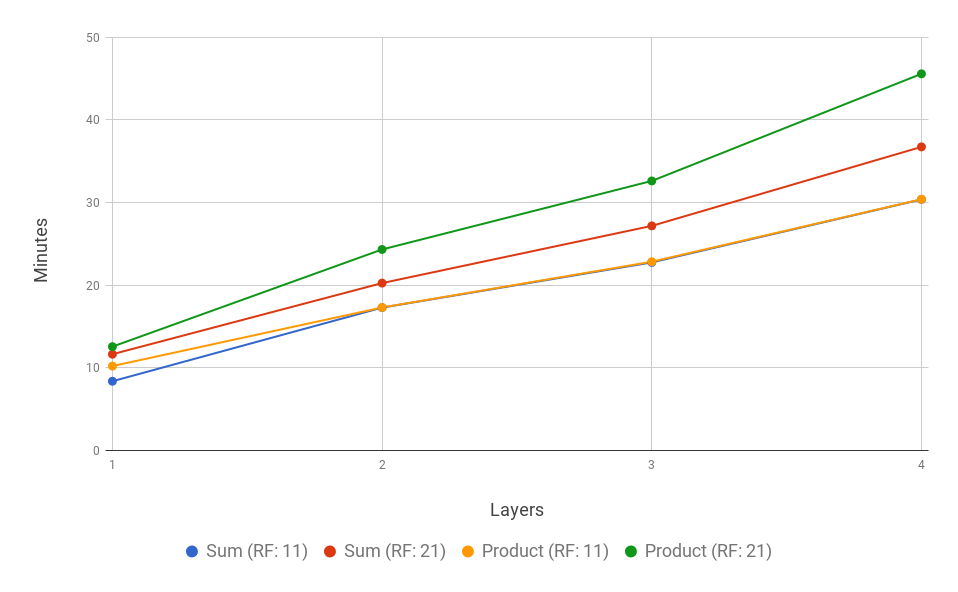
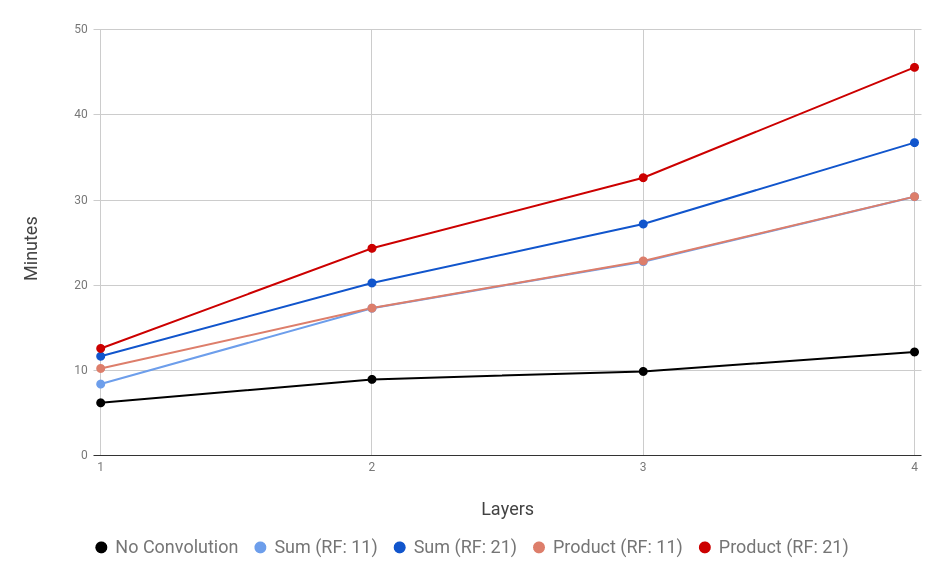
arranged results figures and tables, outlined narrative for some of the analysis section. added new spatial graph conv approach
Former-commit-id: ff11d35eb709cb11b98b892b4c356d455efef5fb

diff --git a/experiments.tex b/experiments.tex
@@ -30,7 +30,7 @@ Table \ref{tab:examples} indicates the number of positive and negative examples 
 			& Test       & 55        & 4,871 (0.1\%)      & 4,953,446 (99.9\%) \\ 
 		\bottomrule
 	\end{tabular}
-	\caption{\small Number of complexes and examples (residue pairs) for each phase of experimentation. Negative examples were down sampled to a ratio of 10:1 with positive examples when training, but testing included all examples. During model selection, three complexes were excluded from the training and validation sets due to a software bug and missing features. These complexes were eventually included for the testing phase. \label{tab:dataset_size}}
+	\caption{Number of complexes and examples (residue pairs) for each phase of experimentation. Negative examples were down sampled to a ratio of 10:1 with positive examples when training, but testing included all examples. During model selection, three complexes were excluded from the training and validation sets due to a software bug and missing features. These complexes were eventually included for the testing phase. \label{tab:dataset_size}}
 	\label{tab:examples}
 \end{table}
 
@@ -57,7 +57,6 @@ This bug was eventually fixed, so these were also included during testing.
 During model selection, missing values were imputed using the feature mean within a proteins, whereas for testing, the global median (within the training, validation, or test set) was used.
 In total there were 138 training and 34 validation complexes during model selection, and there were 175 training and 55 test complexes during testing.
 %TODO: find total number of nans?
-
 
 \section{Experiments}
 
@@ -125,40 +124,73 @@ Dropout with probability $p=0.5$ was performed during training.
 
 The networks were implemented in TensorFlow~\cite{abadi2015} v1.0.1 and trained using a single NVIDIA GTX 980 or GTX TITAN X GPU.
 Training time varied from 9 to 46 minutes, depending on network size, GPU card, and computer resource availability.
-Figure \ref{fig:train_times} shows that training time increases roughly linearly in the number of convolutional layers.
+Figure \ref{fig:train_times} shows that training time increases roughly linearly in the number of convolutional layers, and also that larger receptive fields train more slowly.
+This is consistent with the fact that the no convolution case essentially has a receptive field of size zero.
 
 \begin{figure}
 	\includegraphics[width=0.8\textwidth]{training_times.png}
-	\caption{Training time for pairwise graph convolution neural network, during testing. Times are shown for sum and product coupled convolutions, receptive fields of size 11 and 21, and 1-4 convolutional layers. Training time scales roughly linearly with the number of layers, with different slopes likely due to differences in machine resources and GPU.
+	\caption{Training time for pairwise graph convolution neural network, during testing. Times are shown for sum and product coupled convolutions, receptive fields of size 11 and 21, and 1-4 convolutional layers. Training time scales roughly linearly with the number of layers.
 	\label{fig:train_times}}
 \end{figure}
 
+Graph convolutional networks were compared to PAIRpred, an existing state-of-the-art partner specific interface prediction algorithm based on an SVM with custom symmetric pairwise kernels, proposed by Minhas et al, (2014)~\cite{minhas2014}.
+The original PAIRpred publication used different complexes, slightly different features, and a different experimental protocol, so it was run with.
+Grid search with five-fold cross validation was used to select the optimal kernel and soft margin parameters.
 
-\section{results}
-\subsection{metrics}
+The proposed graph convolution layers were also compared against diffusion convolutions, a spatial graph convolution proposed by Atwood and Towsley, (2016), designed to simulate a diffusion process across each vertex of an input graph~\cite{atwood2016}.
+Diffusion convolutions generate a power series of a weighted adjacency matrix, where each matrix of the power series is the adjacency matrix raised to a unique power.
+In their convolutions, all powers up to a certain limit (the maximum number of "hops").
+This approach only supports a single weight on each edge, so in this case Gaussian normalized distances were used and relative angle was dropped. 
+Manual model selection was used to identify the best values of the standard deviation parameter in the Gaussian normalization.
 
-Compared against diffusion convolutions and PAIRpred.
+\section{Metrics}
+
+Accuracy usually of interest in classification problem, but it's threshold dependent.
+same goes for Precision, Recall, F measure, etc...
+Thresholds can be found through model selection, but more straight forward to use threshold independent measures like the ROC curve, specifies true positive rate for an accepted false positive rate.
+- AUC evaluates overall performance across all thresholds higher is better. 
+
+Often biologists can learn a lot from just a few interacting pairs. 
+We should have metrics which evaluate performance on just the top measures. 
+One such measure is RFPP, lower is better.
+%TODO: include this?: Another is RFPP PR1
+
+AUC and RFPP can be computed for each complex individually, so we can measure the overall effectiveness of a method using the median value across all methods. 
+
+
+\section{Results}
+
+\subsection{Sum and Product Coupling Performance}
 
 \begin{table}
-\begin{center}
-	\begin{tabular}{lccccc}
-		\toprule
-		\multirow{2}{*}{Method} &
-		Receptive Field & \multicolumn{4}{c}{Layers Before Merge} \\
-		& Size & 1 & {2} & {3} & {4} \\
-		\midrule
-		No Convolution & N/A & \textbf{0.815} & 0.812 & 0.800 & 0.811  \\\cline{1-6}
-		\multirow{2}{*}{GCN-SC} & 11 & 0.868 & 0.889 & 0.882 & 0.884 \\
-		& 21 & 0.875 & \textbf{0.903} & 0.880 & 0.890 \\\cline{1-6}
-		\multirow{2}{*}{GCN-PC} & 11 & 0.856 & 0.869 & 0.885 & 0.868 \\
-		& 21 & 0.863 & 0.876 & 0.896 & \textbf{0.899} \\
-		\bottomrule
-	\end{tabular}
-	\caption{\small Median area under the receiver operating characteristic curve (AUC) across all complexes in the test set for two variants of Graph Convolutional Networks (GCN), \textit{sum-coupled} (SC) and \textit{product-coupled} (PC). Results are shown for two different sizes of receptive field, 11 and 21, for different numbers of convolutional layers before the pairwise merge operation. Bold faced values indicate best performance for each method.}
-	\label{tab:med_auc}
-\end{center}
+	\begin{center}
+		\begin{tabular}{lccccc}
+			\toprule
+			\multirow{2}{*}{Method} &
+			Receptive Field & \multicolumn{4}{c}{Layers Before Merge} \\
+			& Size & 1 & {2} & {3} & {4} \\
+			\midrule
+			No Convolution & N/A & \textbf{0.815} & 0.812 & 0.800 & 0.811  \\\cline{1-6}
+			\multirow{2}{*}{GCN-SC} & 11 & 0.868 & 0.889 & 0.882 & 0.884 \\
+			& 21 & 0.875 & \textbf{0.903} & 0.880 & 0.890 \\\cline{1-6}
+			\multirow{2}{*}{GCN-PC} & 11 & 0.856 & 0.869 & 0.885 & 0.868 \\
+			& 21 & 0.863 & 0.876 & 0.896 & \textbf{0.899} \\
+			\bottomrule
+		\end{tabular}
+		\caption{Median area under the receiver operating characteristic curve (AUC) across all complexes in the test set for two variants of Graph Convolutional Networks (GCN), \textit{sum-coupled} (SC) and \textit{product-coupled} (PC). Results are shown for two different sizes of receptive field, 11 and 21, for different numbers of convolutional layers before the pairwise merge operation. Bold faced values indicate best performance for each method.}
+		\label{tab:med_auc}
+	\end{center}
 \end{table}
 
+\ref{tab:med_auc}
+	- incorporating neighbor info helps b/c convolutions do better than no convolution
+	- the larger receptive field tends to benefit as well. roughly the size of an average interface in the dataset (number? basir?).
+	- Number of layers may be tends to help to a point, but then decreases (even for product coupling which is not shown).
+		- best for no-convolution is 1 layer, suggesting that just is deeper better, but also that stacked convolutions help. this suggests a useful hierarchical representation is being learned. 
+		- depth limit could be due to small amount of data.
+		- vanishing gradient?
+	- Sum coupling appears to do better, but AUC is only part of the story.
+	
 \begin{table}
 	\begin{center}
 		\begin{tabular}{lccccc}
@@ -174,20 +206,103 @@ Compared against diffusion convolutions and PAIRpred.
 			& 21 & 26 & \textbf{25} & 36 & 37 \\
 			\bottomrule
 		\end{tabular}
-		\caption{\small Median rank of the first positive prediction (RFPP) across all complexes in the test set for two variants of Graph Convolutional Networks (GCN), \textit{sum-coupled} (SC) and \textit{product-coupled} (PC). Results are shown for two different sizes of receptive field, 11 and 21, for different numbers of convolutional layers before the pairwise merge operation. Bold faced values indicate best performance for each method (lower is better).}
+		\caption{Median rank of the first positive prediction (RFPP) across all complexes in the test set for two variants of Graph Convolutional Networks (GCN), \textit{sum-coupled} (SC) and \textit{product-coupled} (PC). Results are shown for two different sizes of receptive field, 11 and 21, for different numbers of convolutional layers before the pairwise merge operation. Bold faced values indicate best performance for each method (lower is better). For a given receptive field size and number of layers, product coupling performs better than sum coupling except for one case.}
 		\label{tab:med_rfpp}
 	\end{center}
 \end{table}
 
-\begin{figure}
-	\includegraphics[width=\textwidth]{med_rfpp.png}
-	\caption{Median rank of the first positive prediction (RFPP) across all complexes in the test set, separated by complex class. Vertical axes are log scaled. Sum and product coupling are shown for two receptive field sizes each (11 and 21), as well as no convolution, for 1-4 pre-merge layers. Lower RFPP is better. Best performance on rigid complexes is achieved with just one layer in for all networks. Generally, as difficulty increases, so does the number of layers needed to achieve best results.
-		\label{fig:med_rfpp}}
-\end{figure}
-
+\ref{tab:med_rfpp}
+	- Here product coupling does same or better than sum coupling for all but one case.
+	- product coupling detects more specific patterns since it associates each neighbor with its edge. So perhaps better able to detect the specific patterns indicitave of the most interface pairs.
+	- remember, Algorithm is optimizing for overall loss, not RFPP.
+	
 \begin{figure}
 	\includegraphics[width=\textwidth]{med_auc.png}
-	\caption{Median area under the receiver operating characteristic curve (AUC) across all complexes in the test set, separated by complex class. Sum and product coupling are shown for two receptive field sizes each (11 and 21), as well as no convolution, for 1-4 pre-merge layers. For rigid and medium difficulty complexes, performance does not significantly increase beyond two layers. For difficult complexes, product coupling is actually hindered beyond 3 layers. No convolution is hindered beyond 2 layers. 
+	\caption{Median area under the receiver operating characteristic curve (AUC) across all complexes in the test set, separated by complex class. Sum and product coupling are shown for two receptive field sizes each (11 and 21), as well as no convolution, for 1-4 pre-merge layers. Product coupling performs better for difficult complexes, but worse overall because ther are far more rigid and medium difficulty complexes.
+		\label{fig:med_auc}}
+\end{figure}
+	
+results more interesting when separate by difficulty:
+33, 16, 6
+\ref{fig:med_auc}
+	- Sum and product coupling are closely matched for rigid and medium difficulty complexes, but product coupling clearly doing better on difficult complexes, especially for 2 and 3 layers. 
+	- In overall performance, sum still wins out because there are only 6 hard complexes in the test set.
+	
+	
+\begin{figure}
+	\includegraphics[width=0.8\textwidth]{sum_20_2_histo1.png}
+	\caption{Histogram of area under the receiver operating characteristic curve (AUC) for proteins in the test set, colored by difficulty class. Scores are from sum coupled, graph convolution with two layers and receptive field size 21.}
+	\label{fig:histo1}
+\end{figure}
+
+For another picture of performance across classes, look at histogram of AUC's
+\ref{fig:histo1}
+	- Note right skewness, which justifies use of median as a measure. 
+	- Note that no clear divide between rigid, medium, and difficult residues. in fact, worst performing residue is rigid and one difficult gets at least a 0.90 AUC
+	- instead, several easy medium appear to be almost "trivial", with scores above 0.95, whereas no difficult complexes exceed that threshold.
+	
+how about RFPP?
+	
+\begin{figure}
+	\includegraphics[width=\textwidth]{med_rfpp.png}
+	\caption{Median rank of the first positive prediction (RFPP) across all complexes in the test set, separated by complex class. Vertical axes are log scaled. Sum and product coupling are shown for two receptive field sizes each (11 and 21), as well as no convolution, for 1-4 pre-merge layers. Lower RFPP is better. Best performance on rigid complexes is achieved with just one layer for all networks. As difficulty increases, so does the number of layers needed to achieve best results.
 		\label{fig:med_rfpp}}
 \end{figure}
+	
+\ref{fig:med_rfpp}
+	- some heterogeneus behavior across methods, but some trends. 
+	- For each class, there appears to be a favored number of layers, where depth increases with difficulty.
+
+
+
+\subsection{Comparison to Prior Methods}
+
+
+
+\begin{table}
+	\begin{center}
+		\begin{tabular}{l c c c c }
+			\toprule
+			\multirow{2}{*}{Method} & \multicolumn{4}{c}{Median AUC} \\
+			& Overall & Rigid & Medium & Difficult \\
+			\midrule
+			2-hop DCNN ($\sigma=2$\AA{}) & 0.782 & 0.775 & 0.821 & 0.753 \\
+			2-hop DCNN ($\sigma=4$\AA{}) & 0.801 & 0.820 & 0.817 & 0.681 \\
+			\midrule
+			5-hop DCNN ($\sigma=2$\AA{}) & 0.838 & 0.849 & 0.847 & 0.793 \\ 
+			5-hop DCNN ($\sigma=4$\AA{}) & 0.819 & 0.832 & 0.867 & 0.740 \\ 
+			\midrule
+			PAIRpred      & 0.863        & & & \\
+			\midrule
+			GCN-SC (2 layers) & 0.903 & 0.903 & 0.941 & 0.800 \\ 
+			\bottomrule
+			\\
+		\end{tabular}
+		\caption{Comparison with existing classification methods. 
+			PAIRpred is a state-of-the-art interface prediction method~\cite{minhas2014}, and DCNN is our implementation of the diffusion convolution method~\cite{atwood2016}.
+			For DCNN, we used a single convolutional layer before merging, as more layers did not improve the performance (data not shown). DCNN performed better when the adjacency matrix consisted of a Gaussian function of distance, with a standard deviation of 2\AA{} and 4\AA{}, for 2 and 5 hops. Bold faced value indicates the best performance.}
+		\label{tab:results_compare}
+	\end{center}
+	%\end{minipage}
+\end{table}
+
+
+\ref{tab:results_compare}
+	- the proposed graph convolutions outperform both PAIRpred and diffusion convolutions, in every class.
+	- pairpred 
+	
+
+
+
+diffusion based on graph connectivity, this is complete graph which might be noisy, explains why smaller stdev were better.
+
+5 hop diffusion did better with smaller STDDEV since more information propagating through hops
+2 hop diffusion did better with larger STDDEV since fewer hops limits information propagation.
+
+
+
+
+
+
+
 

diff --git a/methods.tex b/methods.tex
@@ -39,11 +39,22 @@ Spectral methods are based on linear functions in the "frequency domain" of a gr
 %TODO: mention(?): scaling to large graphs difficult because factoring large matrices difficult
 Each filter in a spectral convolution implies a weighting of each frequency in the spectral decomposition of the graph~\cite{mallat2009}.
 
-Spatial methods instead define operations in a localized neighborhood of a central vertex~\cite{henaff2015, atwood2016diffusion}.
-Each neighborhood constitutes a receptive field where a convolution operation is performed. 
+Spatial methods instead define operations in a localized neighborhood of a central vertex~\cite{henaff2015, atwood2016}.
+Each neighborhood constitutes a receptive field where a convolution operation is performed.
 Convolution commonly involves a vector of weights and take a weighted sum of neighbors, much like a discrete convolution on a grid can be viewed as taking a weighted sum of grid elements within the receptive field.
 %TODO: cite papers with different neighborhood convolution (write more about them?)
-Spatial convolution is more directly analogous to grid based convolution as described in Chapter \ref{chap:neuralnetworks}, but introduce a problem of correspondence when translated to graphs.
+Spatial convolution is more directly analogous to grid based convolution as described in Chapter \ref{chap:neuralnetworks}.
+Figure \ref{fig:spatial_graph_conv} depicts an example spatial graph convolution that is analogous to Figure \ref{fig:convolutionallayer}.
+However, spatial convolution introduces a problem of correspondence when translated to graphs.
+
+\begin{figure}
+	\centering
+	%\begin{center}
+	\includegraphics[width=\textwidth]{conv_graph.pdf}
+	%\end{center}
+	\caption{An example of spatial graph convolution, defining receptive fields around a central vertex. The result of convolution is applied to the central vertex in the graph.}
+	\label{fig:spatial_graph_conv}
+\end{figure}
 
 \subsection{The Problem of Receptive Field Correspondence}
 When convolving on a grid, each receptive field has an identical structure (for example 3x3 pixels in an image), so there is an automatic correspondence between receptive fields, such  that the same weights are applied to corresponding portions of all receptive fields. 
@@ -148,7 +159,7 @@ This output is be compared to an encoded label indicating whether or not the pai
 See Figure \ref{fig:pairwise_arch1} for a graphical depiction.
 
 \begin{figure}
-	\includegraphics{pairwise_network2.pdf}
+	\includegraphics[width=\textwidth]{pairwise_network2.pdf}
 	\caption{A pairwise neural network architecture that takes two protein graphs as input. Each leg contains one or more convolutional layers. The resultant graphs are then merged to create representations of residue pairs. After more post-merge layers, a final classification is performed for each pair.}
 	\label{fig:pairwise_arch1}
 \end{figure}

diff --git a/future.tex b/future.tex
@@ -2,3 +2,5 @@
 \label{chap:future}
 
 encode edges to generate a representation. This admits deconvolutions
+
+ensemble of different depths or connect each conv layer to the output dense layers for the same effect?
